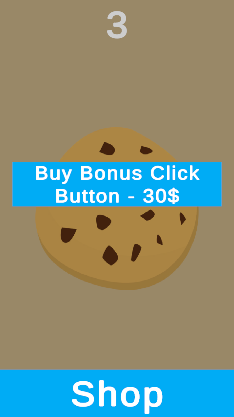
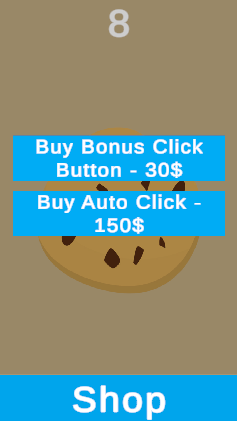
Read Readme.md

diff --git a/2D/Cookie Clicker/Assets/_Scripts/Bootstrap.cs b/2D/Cookie Clicker/Assets/_Scripts/Bootstrap.cs
@@ -11,24 +11,33 @@ public sealed class Bootstrap : MonoBehaviour
     [Header("Buttons")]
     [SerializeField] private ShopButton _shopButton;
     [SerializeField] private BonusClickButton _bonusClickButton;
+    [SerializeField] private AutoClickButton _autoClickButton;
 
     private void OnEnable()
     {
-        _bonusClickButton.Clicked += _bonusClickButton.BuyBonusClick;
+        _bonusClickButton.Clicked += _bonusClickButton.BuyBonus;
         _bonusClickButton.Clicked += _scoreView.UpdateText;
 
-        _cookie.Clicked += DataContainer.ScoreData.Increase;
+        _autoClickButton.Clicked += _autoClickButton.BuyBonus;
+        _autoClickButton.Clicked += _scoreView.UpdateText;
+
+        _cookie.Clicked += DataContainer.Instance.ScoreData.Increase;
         _cookie.Clicked += _scoreView.UpdateText;
 
         _shopButton.onClick.AddListener(_shopView.gameObject.Toogle);
+
+        StartCoroutine(DataContainer.Instance.AutoClickData.Start());
     }
 
     private void OnDisable()
     {
-        _bonusClickButton.Clicked -= _bonusClickButton.BuyBonusClick;
+        _bonusClickButton.Clicked -= _bonusClickButton.BuyBonus;
         _bonusClickButton.Clicked -= _scoreView.UpdateText;
 
-        _cookie.Clicked -= DataContainer.ScoreData.Increase;
+        _autoClickButton.Clicked -= _autoClickButton.BuyBonus;
+        _autoClickButton.Clicked -= _scoreView.UpdateText;
+
+        _cookie.Clicked -= DataContainer.Instance.ScoreData.Increase;
         _cookie.Clicked -= _scoreView.UpdateText;
     }
 }

diff --git a/2D/Cookie Clicker/Assets/_Scripts/Data/ScoreData.cs b/2D/Cookie Clicker/Assets/_Scripts/Data/ScoreData.cs
@@ -3,10 +3,8 @@ using System;
 public sealed class ScoreData
 {
     private uint _score;
-    private static ScoreData s_instance;
 
     public uint Score => _score;
-    public static ScoreData Instance => s_instance;
 
     public void Decrease(uint count)
     {
@@ -16,15 +14,7 @@ public sealed class ScoreData
         _score -= count;
     }
 
-    public void Increase() => _score += DataContainer.BonusData.BonusClick;
+    public void Increase() => _score += DataContainer.Instance.BonusData.BonusClick;
 
-    public static ScoreData GetInstance()
-    {
-        lock (new object())
-        {
-            s_instance ??= new ScoreData();
-
-            return s_instance;
-        }
-    }
+    public void AutoIncrease() => _score += DataContainer.Instance.AutoClickData.Clicks;
 }

diff --git a/2D/Cookie Clicker/Assets/_Scripts/Data/DataContainer.cs b/2D/Cookie Clicker/Assets/_Scripts/Data/DataContainer.cs
@@ -1,5 +1,25 @@
-public static class DataContainer
+public sealed class DataContainer
 {
-    public static ScoreData ScoreData => ScoreData.GetInstance();
-    public static BonusData BonusData => BonusData.GetInstance();
+    private static DataContainer s_instance;
+
+    public readonly ScoreData ScoreData = new ScoreData();
+    public readonly BonusData BonusData = new BonusData();
+    public readonly AutoClickData AutoClickData = new AutoClickData();
+
+    private DataContainer()
+    {
+    }
+
+    public static DataContainer Instance
+    {
+        get
+        {
+            lock (new object())
+            {
+                s_instance ??= new DataContainer();
+
+                return s_instance;
+            }
+        }
+    }
 }

diff --git a/2D/Cookie Clicker/Assets/_Scripts/Data/AutoClickData.cs b/2D/Cookie Clicker/Assets/_Scripts/Data/AutoClickData.cs
@@ -1,0 +1,25 @@
+using System.Collections;
+using UnityEngine;
+
+public sealed class AutoClickData
+{
+    private uint _clicks;
+
+    private const float AutoClickTimeInSecs = 1f;
+
+    public uint Clicks => _clicks;
+
+    public void Increase() => _clicks++;
+
+    public IEnumerator Start()
+    {
+        while (true)
+        {
+            yield return new WaitForSeconds(AutoClickTimeInSecs);
+
+            DataContainer.Instance.ScoreData.AutoIncrease();
+
+            Object.FindFirstObjectByType<ScoreView>().UpdateText();
+        }
+    }
+}

diff --git a/2D/Cookie Clicker/Assets/_Scripts/Data/BonusData.cs b/2D/Cookie Clicker/Assets/_Scripts/Data/BonusData.cs
@@ -1,20 +1,8 @@
 public sealed class BonusData
 {
     private uint _bonusClick = 1;
-    private static BonusData s_instance;
 
     public uint BonusClick => _bonusClick;
-    public static BonusData Instance => s_instance;
 
     public void IncreaseClick() => _bonusClick++;
-
-    public static BonusData GetInstance()
-    {
-        lock (new object())
-        {
-            s_instance ??= new BonusData();
-
-            return s_instance;
-        }
-    }
 }

diff --git a/2D/Cookie Clicker/Assets/_Scripts/Buttons/AutoClickButton.cs b/2D/Cookie Clicker/Assets/_Scripts/Buttons/AutoClickButton.cs
@@ -1,10 +1,10 @@
-public sealed class BonusClickButton : ShopItemButton
+public sealed class AutoClickButton : ShopItemButton
 {
     public override void BuyBonus()
     {
         if (DataContainer.Instance.ScoreData.Score >= Price)
         {
-            DataContainer.Instance.BonusData.IncreaseClick();
+            DataContainer.Instance.AutoClickData.Increase();
             DataContainer.Instance.ScoreData.Decrease(Price);
 
             MultiplyPrice();

diff --git a/2D/Cookie Clicker/Assets/_Scripts/Views/ScoreView.cs b/2D/Cookie Clicker/Assets/_Scripts/Views/ScoreView.cs
@@ -8,5 +8,5 @@ public sealed class ScoreView : MonoBehaviour
 
     private void Awake() => _scoreText = GetComponent<TextMeshProUGUI>();
 
-    public void UpdateText() => _scoreText.text = $"{DataContainer.ScoreData.Score}";
+    public void UpdateText() => _scoreText.text = $"{DataContainer.Instance.ScoreData.Score}";
 }

diff --git a/2D/Cookie Clicker/Assets/_Scripts/Views/Shop/ShopItemButton.cs b/2D/Cookie Clicker/Assets/_Scripts/Views/Shop/ShopItemButton.cs
@@ -19,4 +19,6 @@ public abstract class ShopItemButton : MonoBehaviour
 
     protected void UpdateDisplay() => _textMesh.text = $"{_displayText} - {_price}$";
     protected void MultiplyPrice(uint multiplier = 2) => _price *= multiplier;
+    
+    public abstract void BuyBonus();
 }

diff --git a/2D/Cookie Clicker/Assets/_Scripts/Views/Shop/ShopView.cs b/2D/Cookie Clicker/Assets/_Scripts/Views/Shop/ShopView.cs
@@ -1,6 +1,6 @@
 using UnityEngine;
 
-public class ShopView : MonoBehaviour
+public sealed class ShopView : MonoBehaviour
 {
     private void Awake() => gameObject.Hide();
 }

diff --git a/2D/Cookie Clicker/Assets/_Scripts/Buttons/ShopButton.cs b/2D/Cookie Clicker/Assets/_Scripts/Buttons/ShopButton.cs
@@ -1,3 +1,3 @@
 using UnityEngine.UI;
 
-public class ShopButton : Button { }
+public sealed class ShopButton : Button { }

diff --git a/2D/Cookie Clicker/Readme.md b/2D/Cookie Clicker/Readme.md
@@ -1,1 +1,4 @@
+1. Added Auto Click
+2. Singletons have decreased
+
 ![Game](./Screenshots/Game.png/)
